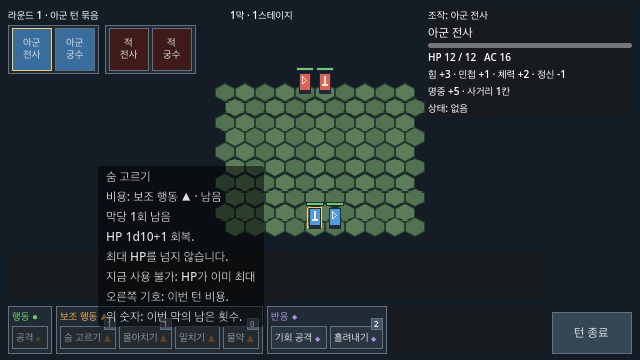
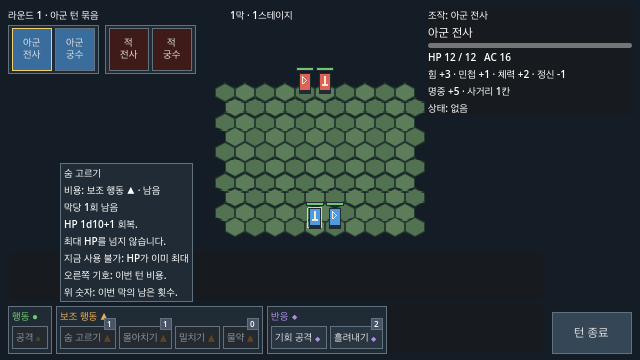
fix(combat): keep hover details above the hud
Refs #58

Changed region(s): [[0.0938, 0.4583, 0.4375, 0.9167]]

diff --git a/docs/COMBAT_UIUX.md b/docs/COMBAT_UIUX.md
@@ -16,6 +16,8 @@
 
 우측 유닛 패널의 이동·턴 자원 줄을 제거한다. 남은 이동 칸 수는 표시하지 않는다. 좌측 동작·이동 설명과 우측 조작 안내를 제거한다. 좌측 공간은 비운다. 조작 방법은 이후 튜토리얼 단계에서 다룬다. 이번 변경에는 튜토리얼을 넣지 않는다.
 
+호버 설명은0.5초 뒤에 HUD의 앞쪽에 표시한다. 스킬 설명은 아래 스킬 패널의 위에 띄운다. 설명 전체를 화면 안에 배치한다. 설명은 포인터 입력을 가로막지 않는다. 포인터가 버튼을 벗어나거나 반응·결과 창이 열리면 설명을 숨긴다. 초상과 자원 제목도 같은 표시 방식을 쓴다.
+
 ## 적용 화면
 
 실제 Godot4.7.2의 Metal 렌더링을 캡처했다. 기본 화면과 비활성 스킬의 호버를 보여 준다. 캡처는 고정한 턴 상태에서 만들었다.
